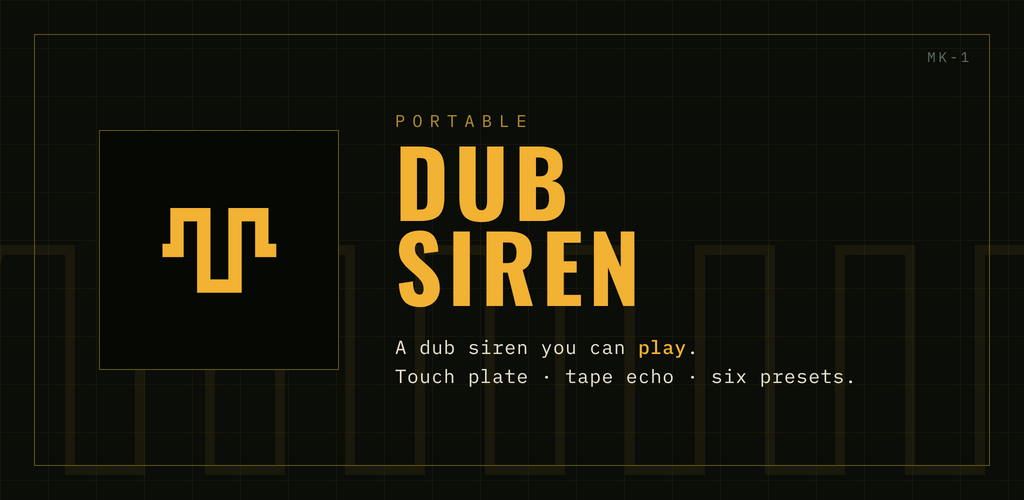
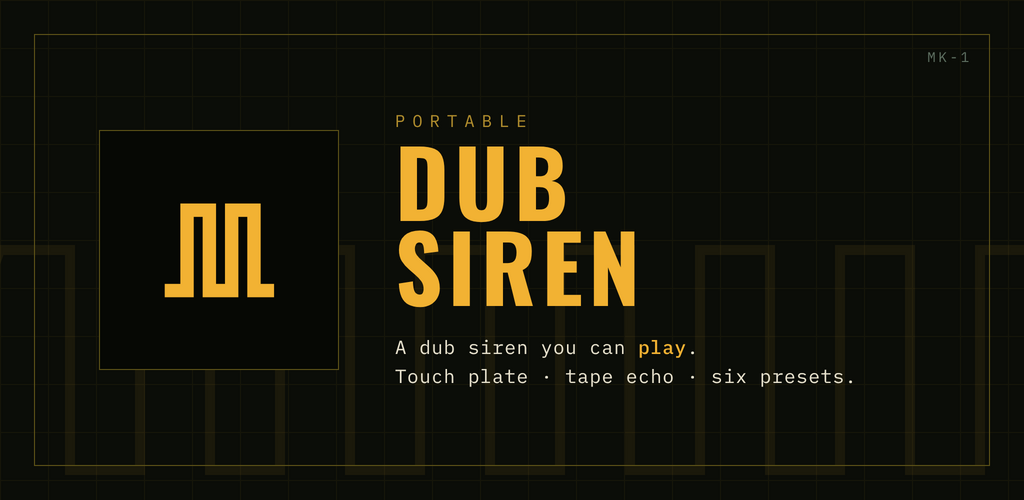
Use the chosen square-wave mark, not the refined variant
The icon I shipped was a refinement I made on my own — a square wave with a
central trough (zero → valley → zero). That is not what was picked: the
chosen mark is the original THE SQUARE WAVE (two tall pulses with the centre
notch, short legs down). Reverting to exactly that drawing.

Regenerated every asset from the original master: www/icons and site/icons
(180/192/512), the Android mipmaps across all five densities (launcher,
round, adaptive foreground), the brand master SVG, and the Play feature
graphic. Service worker cache bumped to v20 so the installed PWA refetches
the corrected icons.

Claude-Session: https://claude.ai/code/session_01XfGbK4GAdUwWCP3UTy2yxE

Changed region(s): [[0.1562, 0.39, 0.2812, 0.6]]

diff --git a/www/sw.js b/www/sw.js
@@ -1,4 +1,4 @@
-const CACHE = "dub-siren-v19";
+const CACHE = "dub-siren-v20";
 const ASSETS = [
   "./",
   "./index.html",
